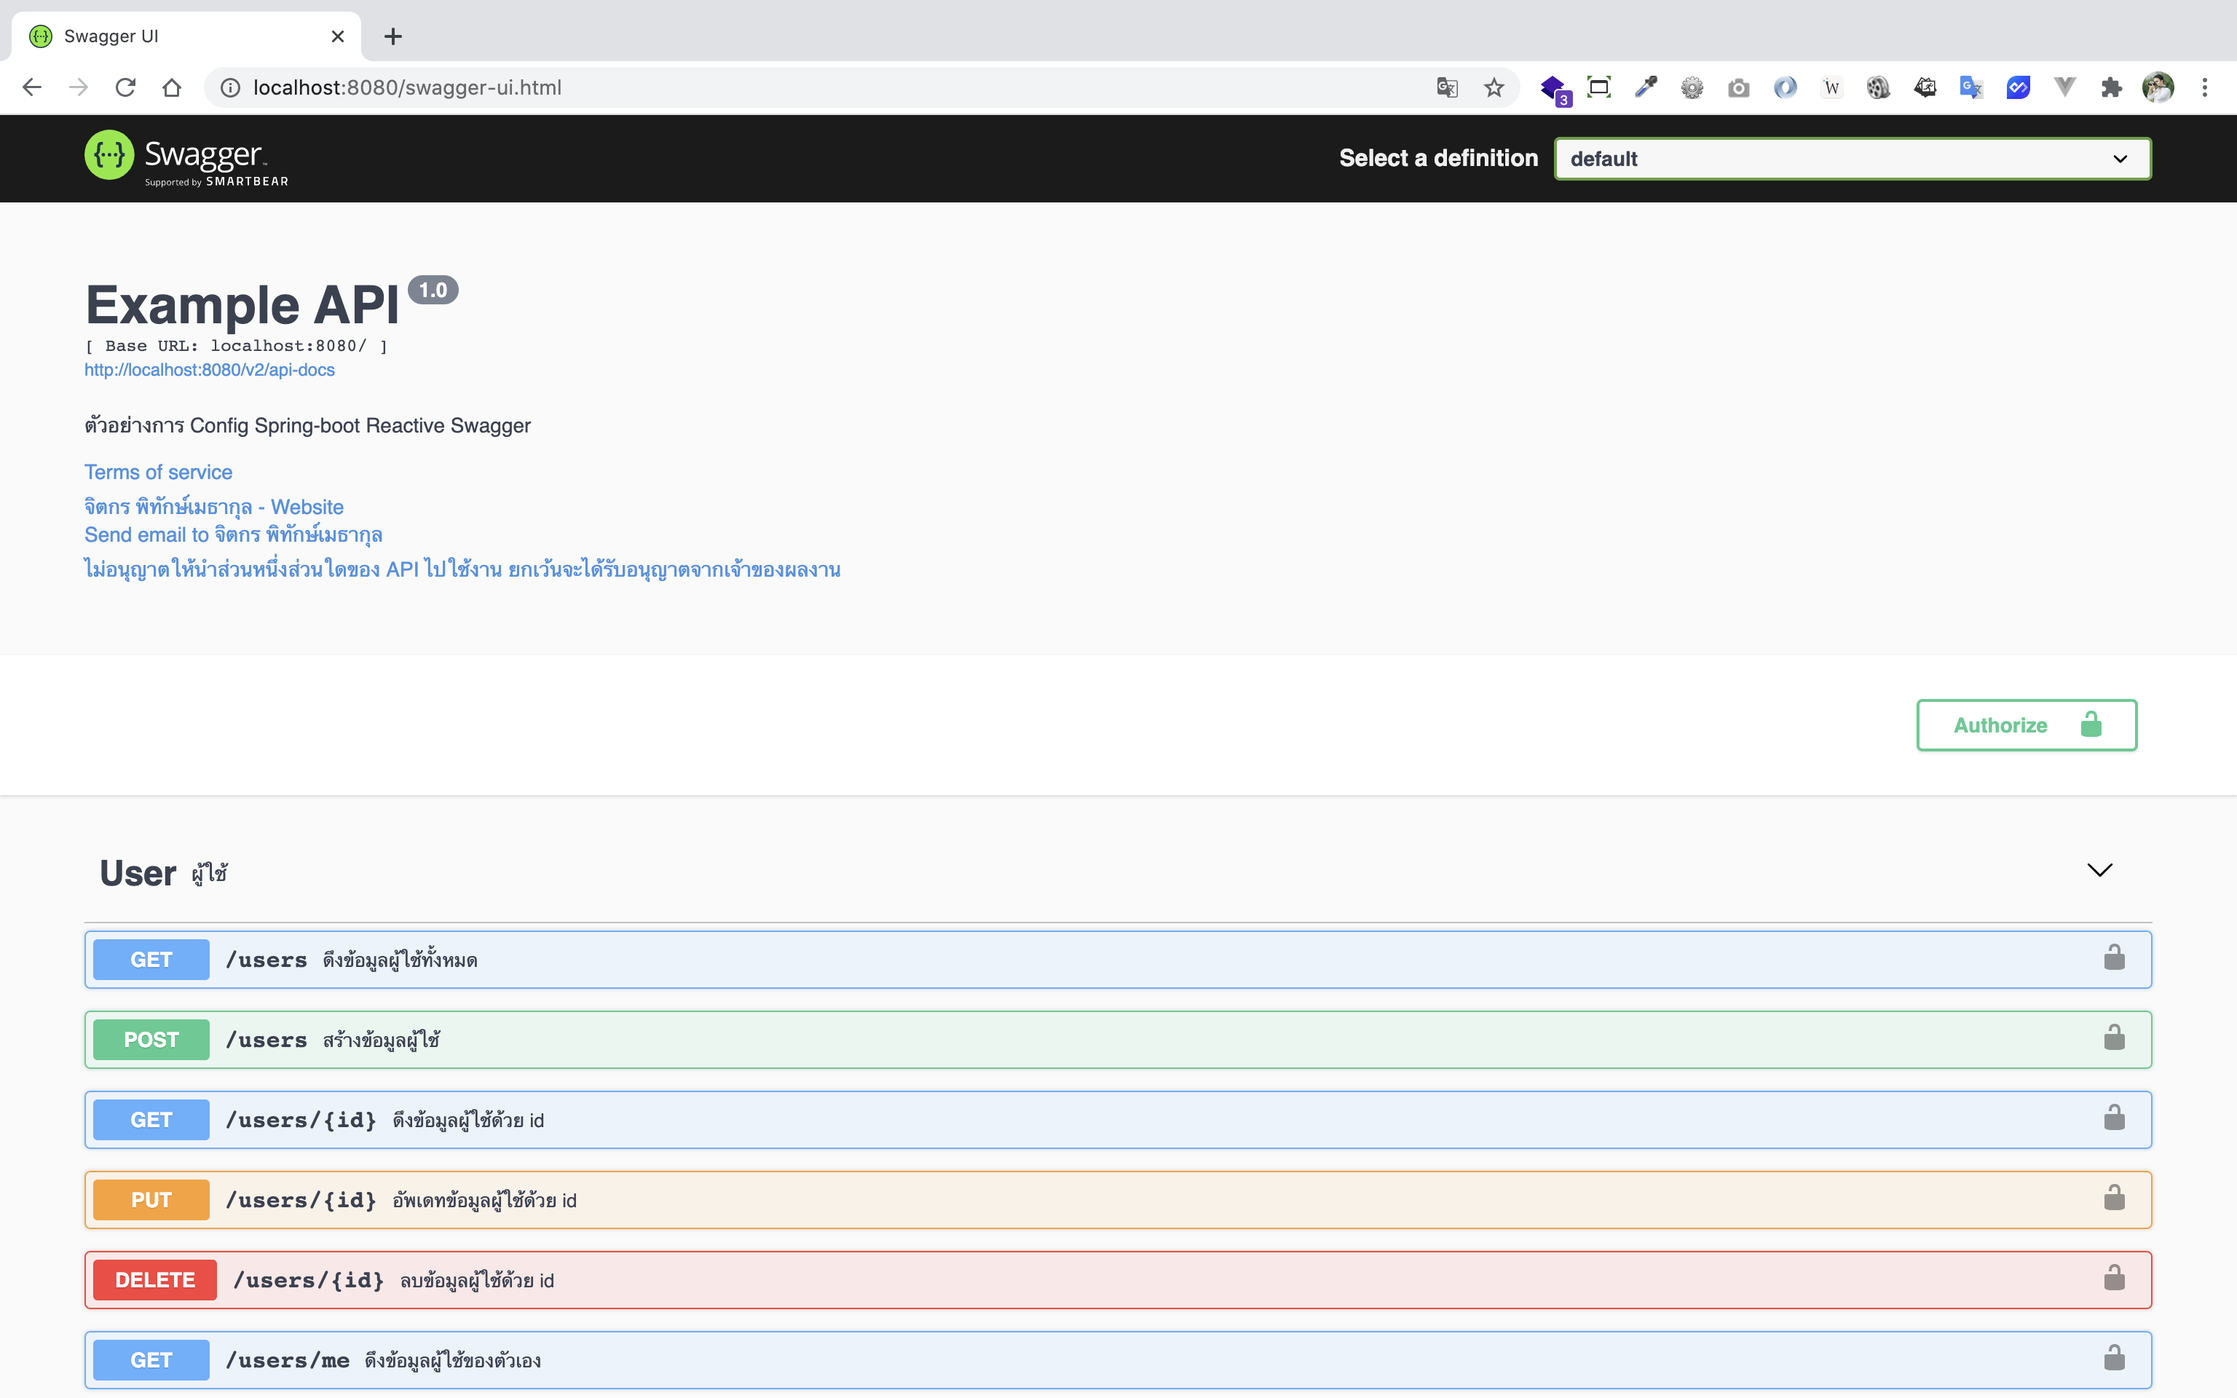
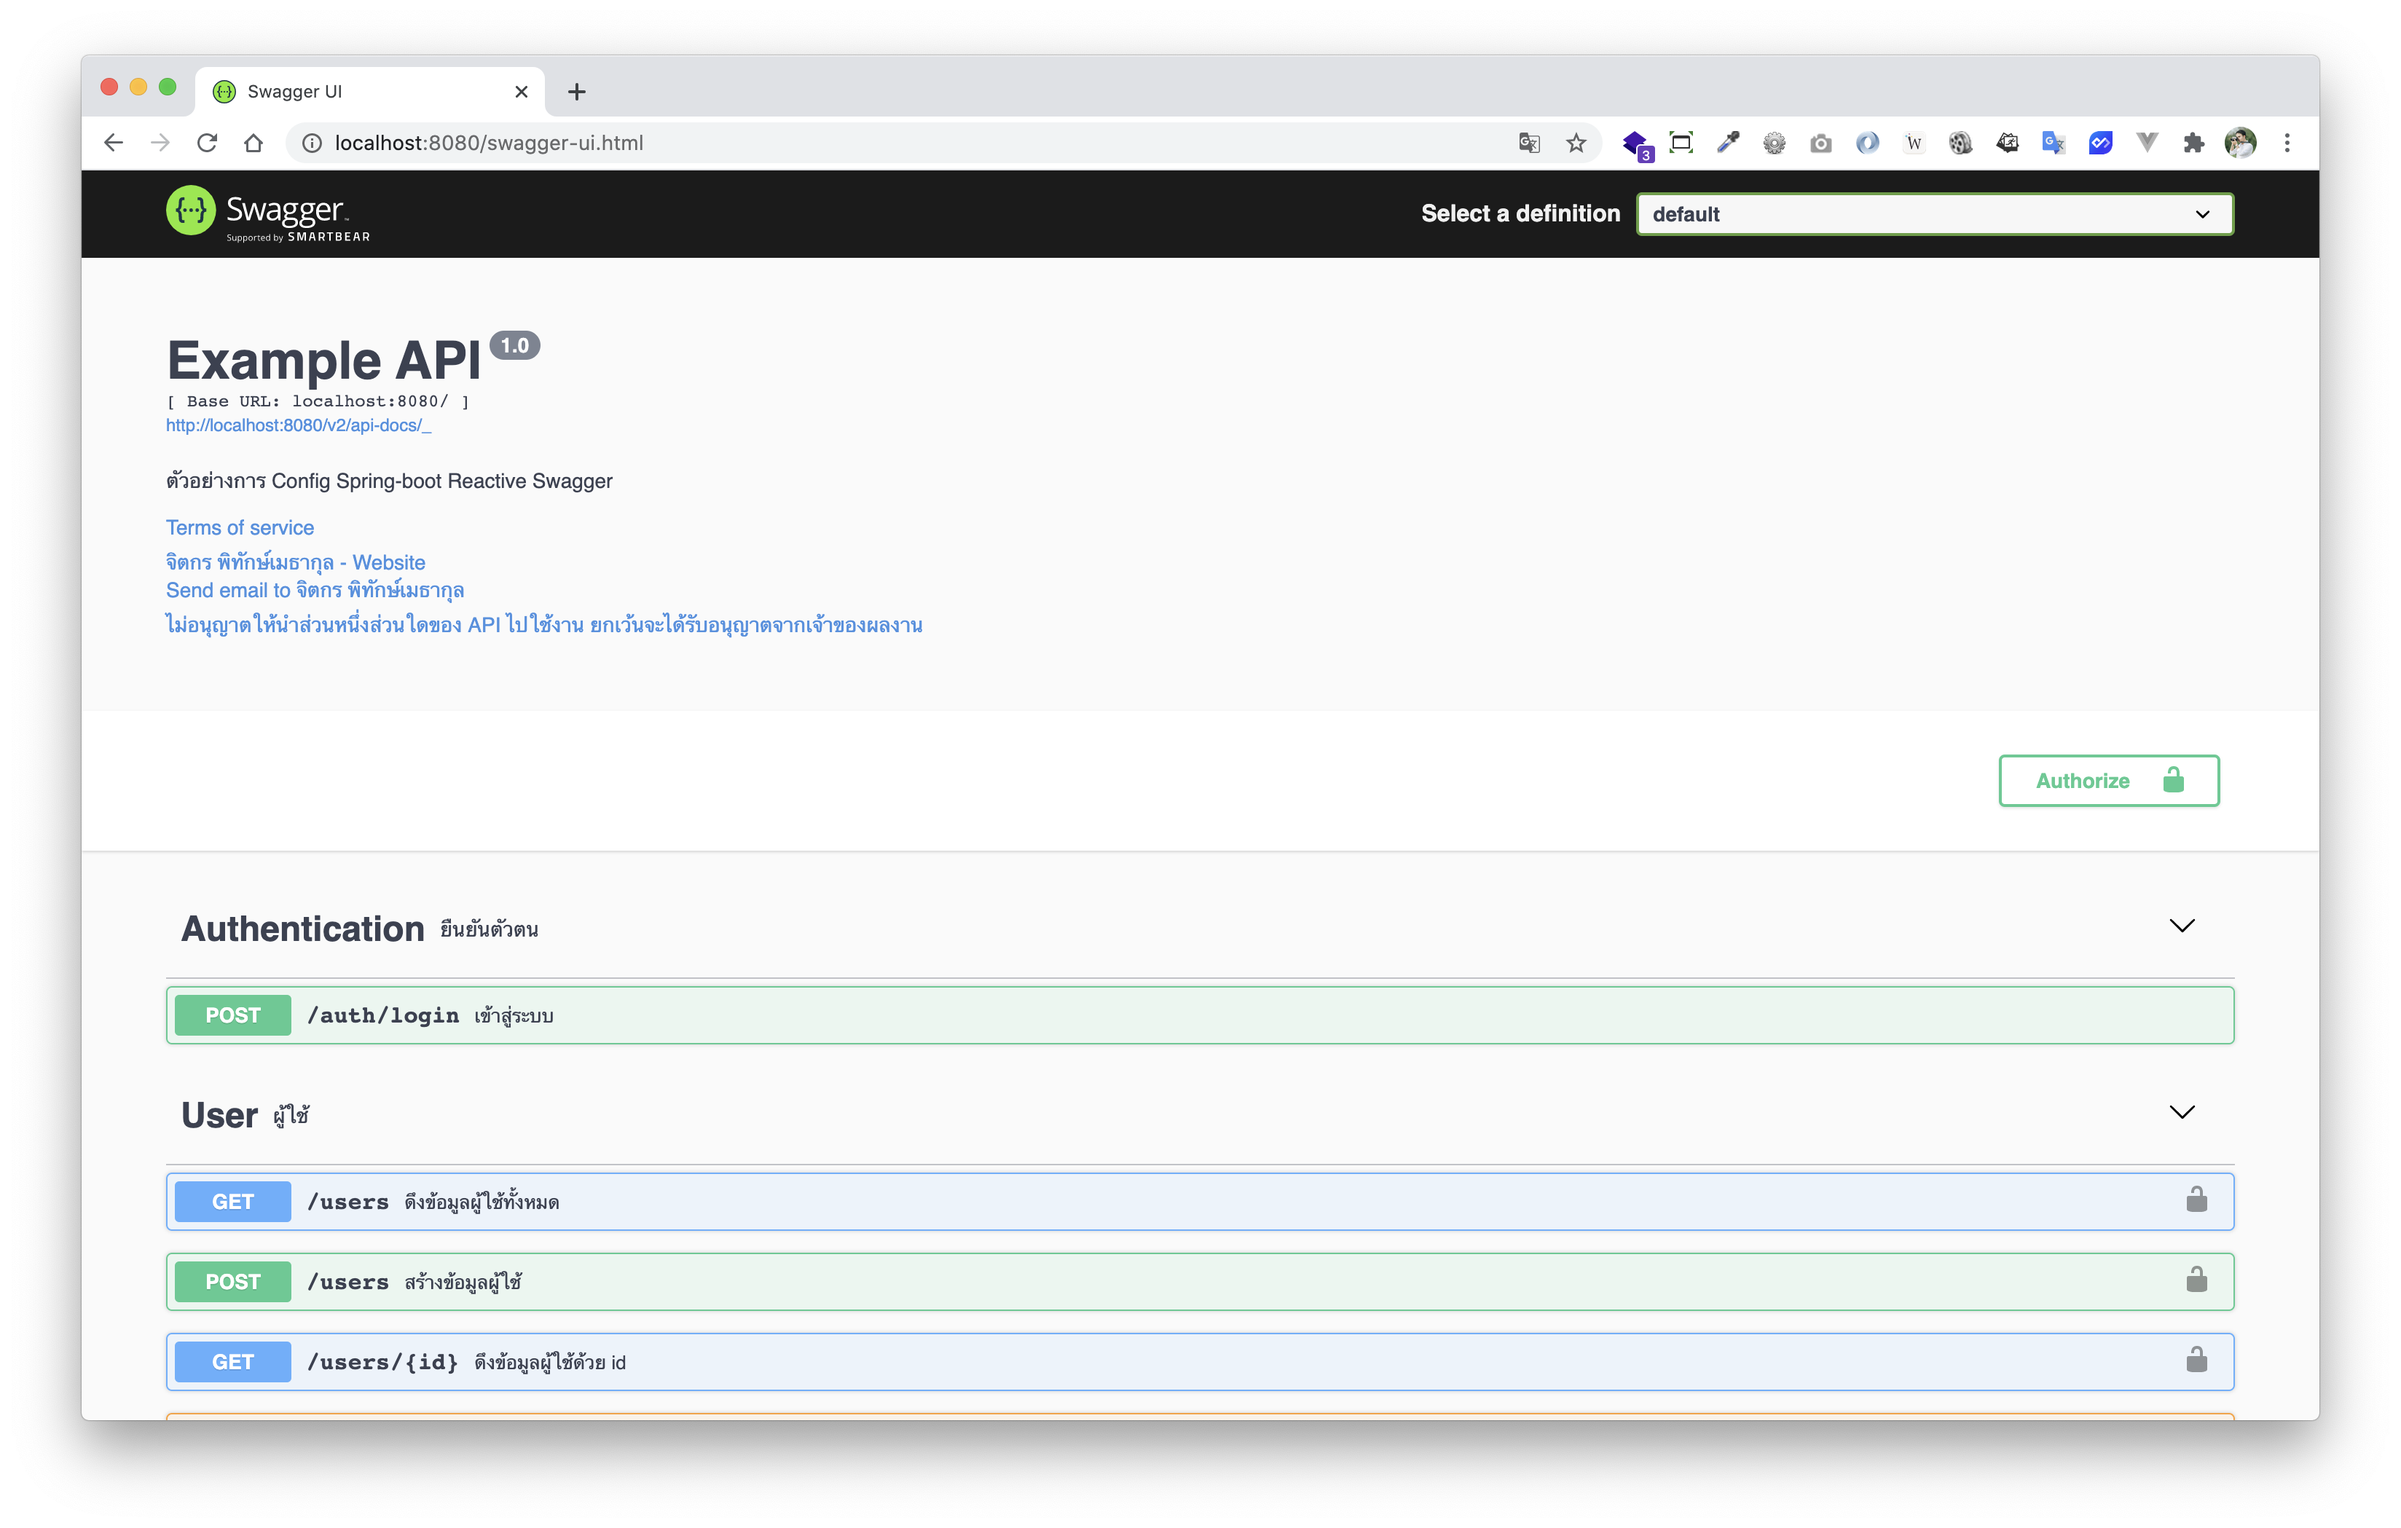
update swagger

Changed region(s): [[0.0, 0.0, 1.0, 1.0]]

diff --git a/spring-boot-reactive-swagger/src/main/java/me/jittagornp/example/reactive/controller/FixedBugSwaggerApiDocsController.java b/spring-boot-reactive-swagger/src/main/java/me/jittagornp/example/reactive/controller/FixedBugSwaggerApiDocsController.java
@@ -1,0 +1,122 @@
+/*
+ * Copyright 2019-Current jittagornp.me
+ */
+package me.jittagornp.example.reactive.controller;
+
+import java.io.IOException;
+import java.net.URL;
+import java.util.Arrays;
+import java.util.HashMap;
+import java.util.Iterator;
+import java.util.List;
+import java.util.Map;
+import lombok.RequiredArgsConstructor;
+import lombok.extern.slf4j.Slf4j;
+import org.springframework.stereotype.Controller;
+import org.springframework.web.bind.annotation.GetMapping;
+import org.springframework.web.bind.annotation.ResponseBody;
+import org.springframework.web.reactive.function.client.WebClient;
+import org.springframework.web.server.ServerWebExchange;
+import reactor.core.publisher.Mono;
+import springfox.documentation.annotations.ApiIgnore;
+
+/**
+ * For FIXED bug duplicate model of Spring-fox Swagger
+ *
+ * @author jitta
+ */
+@Slf4j
+@ApiIgnore
+@Controller
+@RequiredArgsConstructor
+public class FixedBugSwaggerApiDocsController {
+
+    private Map apiDocs;
+
+    @ResponseBody
+    @GetMapping("/swagger-resources")
+    public Mono<List<Map<String, Object>>> getSwaggerResources() {
+        final Map<String, Object> config = new HashMap<>();
+        config.put("name", "default");
+        config.put("url", "/v2/api-docs/_");
+        config.put("swaggerVersion", "2.0");
+        config.put("location", "/v2/api-docs/_");
+        return Mono.just(Arrays.asList(config));
+    }
+
+    private String getBaseURL(final ServerWebExchange exchange){
+        final String referer = exchange.getRequest().getHeaders().getFirst("Referer");
+        try {
+            final URL url = new URL(referer);
+            return url.getProtocol() + "://" + url.getHost() + ":" + url.getPort();
+        }catch (final Exception e){
+            return null;
+        }
+    }
+
+    @ResponseBody
+    @GetMapping("/v2/api-docs/_")
+    public Mono<Map> getApiDocs(final ServerWebExchange exchange) throws IOException {
+        log.debug("GET api-docs");
+
+        if (apiDocs != null) {
+            return Mono.just(apiDocs);
+        }
+
+        final String baseURL = getBaseURL(exchange);
+        return WebClient.create(baseURL + "/v2/api-docs")
+                .get()
+                .retrieve()
+                .bodyToMono(Map.class)
+                .map(data -> {
+                    final Map<String, Object> map = (Map<String, Object>) data;
+                    removeDuplicate$RefModels(map);
+                    removeDuplicateModels(map);
+                    apiDocs = map;
+                    return map;
+                });
+    }
+
+    private Map<String, Object> removeDuplicate$RefModels(final Map<String, Object> map) {
+        for (Map.Entry<String, Object> entry : map.entrySet()) {
+            final String key = entry.getKey();
+            final Object value = entry.getValue();
+            if ("$ref".equals(key) && (value instanceof String)) {
+                final String ref = ((String) value);
+                if (ref.contains("_")) {
+                    final String newRef = ref.split("_")[0];
+                    log.debug("$ref => {} {}", ref, newRef);
+                    entry.setValue(newRef);
+                }
+            }
+
+            if (value instanceof Map) {
+                removeDuplicate$RefModels((Map<String, Object>) value);
+            } else if (value instanceof List) {
+                final List list = (List) value;
+                for (Object object : list) {
+                    if (value instanceof Map) {
+                        removeDuplicate$RefModels((Map<String, Object>) object);
+                    }
+                }
+            }
+        }
+
+        return map;
+    }
+
+    private Map<String, Object> removeDuplicateModels(final Map<String, Object> map) {
+        final Map<String, Object> definitions = (Map<String, Object>) map.get("definitions");
+        final Iterator<Map.Entry<String, Object>> iterator = definitions.entrySet().iterator();
+        while (iterator.hasNext()) {
+            final Map.Entry<String, Object> entry = iterator.next();
+            final String key = entry.getKey();
+            if (key.contains("_")) {
+                log.debug("duplicate model => {}", key);
+                iterator.remove();
+            }
+        }
+        return map;
+    }
+
+}

diff --git a/spring-boot-reactive-swagger/src/main/java/me/jittagornp/example/reactive/controller/AuthController.java b/spring-boot-reactive-swagger/src/main/java/me/jittagornp/example/reactive/controller/AuthController.java
@@ -1,0 +1,41 @@
+/*
+ * Copyright 2019-Current jittagornp.me
+ */
+package me.jittagornp.example.reactive.controller;
+
+import io.swagger.annotations.Api;
+import io.swagger.annotations.ApiOperation;
+import lombok.RequiredArgsConstructor;
+import me.jittagornp.example.reactive.model.LoginRequest;
+import me.jittagornp.example.reactive.model.LoginResponse;
+import org.springframework.validation.annotation.Validated;
+import org.springframework.web.bind.annotation.PostMapping;
+import org.springframework.web.bind.annotation.RequestBody;
+import org.springframework.web.bind.annotation.RequestMapping;
+import org.springframework.web.bind.annotation.RestController;
+import reactor.core.publisher.Mono;
+import java.util.UUID;
+
+/**
+ *
+ * @author jitta
+ */
+@RestController
+@RequiredArgsConstructor
+@RequestMapping("/auth")
+@Api(tags = {"Authentication"}, description = "ยืนยันตัวตน")
+public class AuthController {
+
+    @PostMapping("/login")
+    @ApiOperation(value = "เข้าสู่ระบบ")
+    public Mono<LoginResponse> login(final @RequestBody @Validated LoginRequest request) {
+        return Mono.just(
+                LoginResponse.builder()
+                        .accessToken(UUID.randomUUID().toString())
+                        .type("bearer")
+                        .expiresIn(60 * 60L) // 1Hr
+                        .build()
+        );
+    }
+
+}

diff --git a/spring-boot-reactive-swagger/src/main/java/me/jittagornp/example/reactive/model/LoginResponse.java b/spring-boot-reactive-swagger/src/main/java/me/jittagornp/example/reactive/model/LoginResponse.java
@@ -1,0 +1,30 @@
+/*
+ * Copyright 2019-Current jittagornp.me
+ */
+package me.jittagornp.example.reactive.model;
+
+import com.fasterxml.jackson.annotation.JsonProperty;
+import io.swagger.annotations.ApiModelProperty;
+import lombok.Builder;
+import lombok.Data;
+
+/**
+ * @author jitta
+ */
+@Data
+@Builder
+public class LoginResponse {
+
+    @ApiModelProperty(value = "โทเค็น")
+    @JsonProperty("access_token")
+    private String accessToken;
+
+    @ApiModelProperty(value = "ประเภทโทเค็น")
+    private String type;
+
+    @ApiModelProperty(value = "หมดอายุภายใน (วินาที)")
+    @JsonProperty("expires_in")
+    private Long expiresIn;
+
+    //TODO
+}

diff --git a/spring-boot-reactive-swagger/src/main/java/me/jittagornp/example/reactive/model/LoginRequest.java b/spring-boot-reactive-swagger/src/main/java/me/jittagornp/example/reactive/model/LoginRequest.java
@@ -1,0 +1,23 @@
+/*
+ * Copyright 2019-Current jittagornp.me
+ */
+package me.jittagornp.example.reactive.model;
+
+import io.swagger.annotations.ApiModel;
+import io.swagger.annotations.ApiModelProperty;
+import lombok.Data;
+
+/**
+ * @author jitta
+ */
+@Data
+@ApiModel(description = "คำขอเข้าสู่ระบบ")
+public class LoginRequest {
+
+    @ApiModelProperty(value = "บัญชีผู้ใช้", required = true, position = 0)
+    private String username;
+
+    @ApiModelProperty(value = "รหัสผ่าน", required = true, position = 1)
+    private String password;
+
+}

diff --git a/spring-boot-reactive-swagger/src/main/java/me/jittagornp/example/reactive/model/User.java b/spring-boot-reactive-swagger/src/main/java/me/jittagornp/example/reactive/model/User.java
@@ -13,7 +13,7 @@ import lombok.Data;
  */
 @Data
 @Builder
-@ApiModel(value = "User", description = "ผู้ใช้งาน")
+@ApiModel(description = "ผู้ใช้งาน")
 public class User {
 
     @ApiModelProperty(value = "id ผู้ใช้งาน", position = 0)

diff --git a/spring-boot-reactive-swagger/src/main/java/me/jittagornp/example/reactive/config/SwaggerConfig.java b/spring-boot-reactive-swagger/src/main/java/me/jittagornp/example/reactive/config/SwaggerConfig.java
@@ -1,3 +1,6 @@
+/*
+ * Copyright 2019-Current jittagornp.me
+ */
 package me.jittagornp.example.reactive.config;
 
 import java.util.Arrays;

diff --git a/spring-boot-reactive-swagger/README.md b/spring-boot-reactive-swagger/README.md
@@ -17,7 +17,7 @@ pom.xml
     <groupId>org.springframework.boot</groupId>
     <artifactId>spring-boot-starter-parent</artifactId>
     <version>2.3.2.RELEASE</version>
-</parent>
+</parent> 
 
 <dependencies>
     <dependency>
@@ -133,8 +133,39 @@ public class SwaggerConfig {
 
 ```java
 @Data
+@ApiModel(description = "คำขอเข้าสู่ระบบ")
+public class LoginRequest {
+
+    @ApiModelProperty(value = "บัญชีผู้ใช้", required = true, position = 0)
+    private String username;
+
+    @ApiModelProperty(value = "รหัสผ่าน", required = true, position = 1)
+    private String password;
+
+}
+
+@Data
 @Builder
-@ApiModel(value = "User", description = "ผู้ใช้งาน")
+public class LoginResponse {
+
+    @ApiModelProperty(value = "โทเค็น")
+    @JsonProperty("access_token")
+    private String accessToken;
+
+    @ApiModelProperty(value = "ประเภทโทเค็น")
+    private String type;
+
+    @ApiModelProperty(value = "หมดอายุภายใน (วินาที)")
+    @JsonProperty("expires_in")
+    private Long expiresIn;
+
+    //TODO
+}
+
+
+@Data
+@Builder
+@ApiModel(description = "ผู้ใช้งาน")
 public class User {
 
     @ApiModelProperty(value = "id ผู้ใช้งาน", position = 0)
@@ -159,6 +190,26 @@ public class User {
 
 # 5. เขียน Controller
 ``` java
+@RestController
+@RequiredArgsConstructor
+@RequestMapping("/auth")
+@Api(tags = {"Authentication"}, description = "ยืนยันตัวตน")
+public class AuthController {
+
+    @PostMapping("/login")
+    @ApiOperation(value = "เข้าสู่ระบบ")
+    public Mono<LoginResponse> login(final @RequestBody @Validated LoginRequest request) {
+        return Mono.just(
+                LoginResponse.builder()
+                        .accessToken(UUID.randomUUID().toString())
+                        .type("bearer")
+                        .expiresIn(60 * 60L) // 1Hr
+                        .build()
+        );
+    }
+
+}
+
 @Slf4j
 @RestController
 @RequestMapping("/users")
